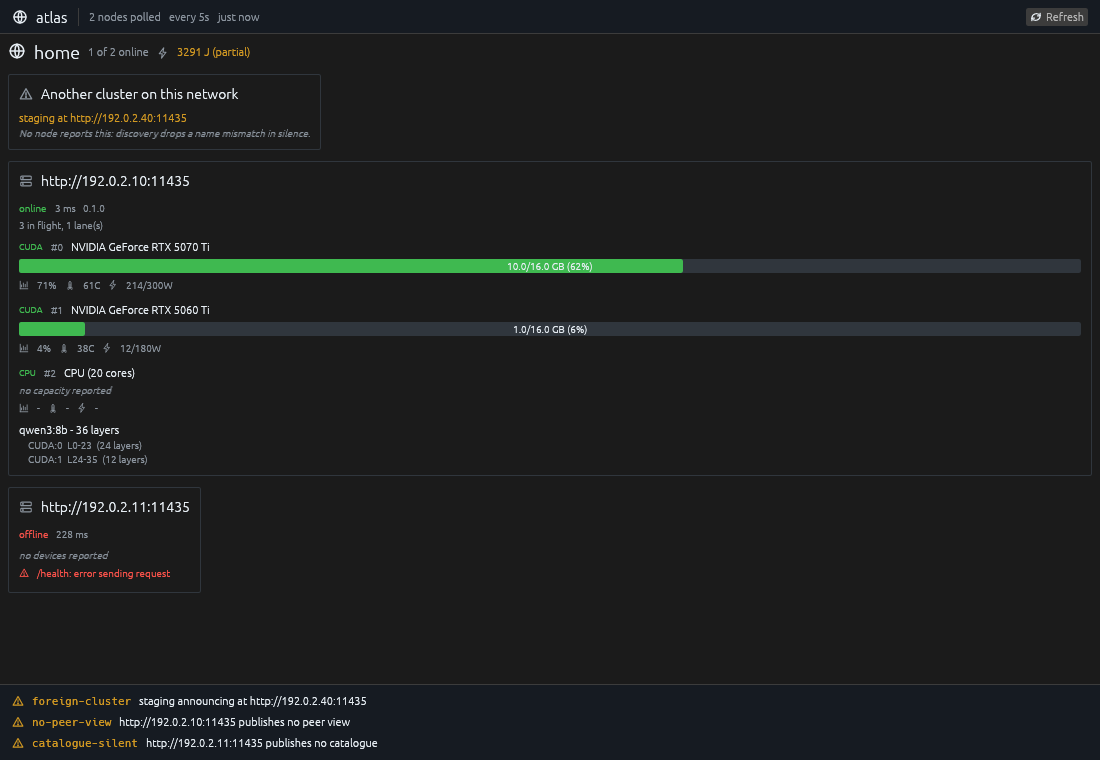
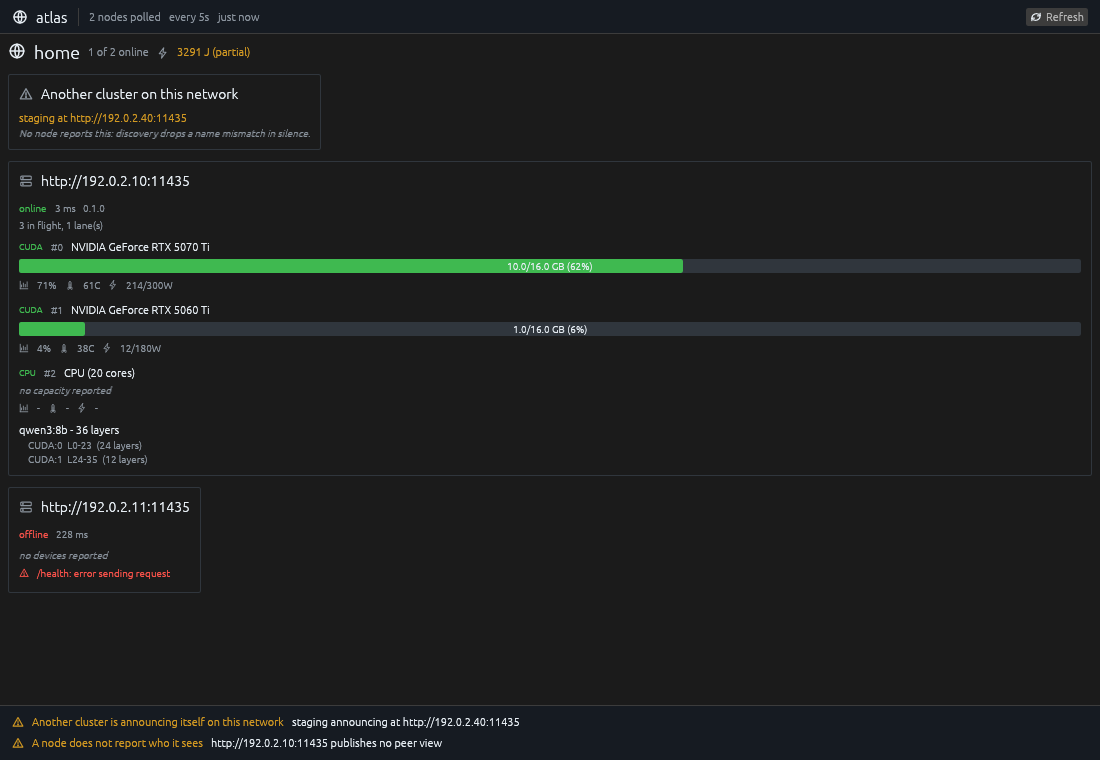
Document what the views show and what doctor reports
The README says how an address is read, that a node is one whatever
its addresses, which findings doctor raises and which it does not, and
what the build needs. The images are redrawn from the current layout.

Changed region(s): [[0.0, 0.9079, 0.4636, 0.9987]]

diff --git a/README.md b/README.md
@@ -10,10 +10,12 @@ cargo build --release
 
 Three tools over one collector.
 
-- **`atlas watch`** - the living map. Nodes, their devices, what is loaded, what is in flight,
-  and the round trips between them.
-- **`atlas doctor`** - the inconsistencies a cluster swallows in silence. Exits with the number
-  of rules that fired.
+- **`atlas watch`** - the living map. Nodes, their devices, the models resident on each with
+  the layers every device holds, what is in flight, the round trips between them, and the
+  doctor's verdict in words. A node that reports no device says so rather than leaving a
+  blank.
+- **`atlas doctor`** - the inconsistencies a cluster swallows in silence, each as a sentence
+  naming the nodes by their id. Exits with the number of rules that fired.
 - **`atlas export`** - OpenMetrics for the facts no single node holds: round trips as the
   observer measures them, membership, versions, and doctor's verdicts.
 
@@ -30,6 +32,25 @@ address, host or model. Regenerate them with
 `cargo test --release --all-features screenshots -- --ignored`.
 
 Node addresses come from `--node`, from a config file, or from listening. None are compiled in.
+A bare `host:port` is taken as `http://`, and both binaries listen for announcements before
+deciding they have no node to watch. The same daemon reached at two addresses, `localhost` and
+the one it advertises, is one node: nodes are told apart by the id they give themselves.
+
+## What doctor reports
+
+| Finding | What it means |
+|---|---|
+| Another cluster is announcing itself on this network | Only a passive listener can see it: every node drops a name mismatch in silence |
+| Two nodes share one id | Each hides the other, since a node filters its own announcements on that id |
+| The nodes do not all see each other | A partition where both halves still answer the observer |
+| A node does not report who it sees | A build older than the peers route |
+| A node publishes no catalogue | The router then prices it on what it has in memory alone |
+| Energy is reported on part of the cluster only | Any cluster total would be partial |
+| A node answers but is not in a cluster | It runs without a `[cluster]` block |
+| The nodes run different versions | |
+
+Nodes holding different models is not a finding. Models spread over the cluster and a request
+is forwarded to a holder; that is the cluster working as designed.
 
 ## Where it is careful
 
@@ -55,6 +76,13 @@ emitted rather than a sum that reads as complete.
 
 **The round trip is taken on the request already being made**, never on a separate ping, which
 would measure a path the router does not price.
+
+## Building
+
+`cargo build --release` builds both binaries; `--no-default-features` builds `atlas` alone,
+without the window and its display stack. The minimum toolchain is the one the window's
+libraries require, stated in `Cargo.toml`; the workflow checks it, along with formatting, the
+lints, the tests, the documentation and the dependency audit.
 
 ## Licence
 
